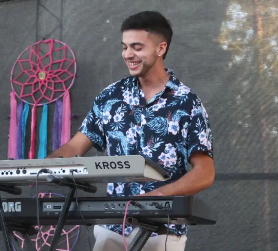
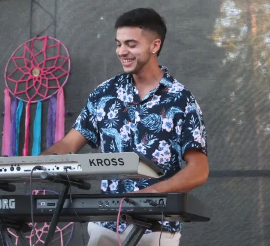
acomodando mis imagenes de class carousell, de torena music, modificanso imagenes de mi galeria

diff --git a/pages/galeria.html b/pages/galeria.html
@@ -58,10 +58,10 @@
         <section class="galeria">
 
             <div class="galeria__img d1">
-                <img src="../images/captura1.png" alt="LaDescokada show en vivo">
+                <img src="../images/estudio.jpg" alt="LaDescokada show en vivo">
             </div>
             <div class="galeria__img d2">
-                <img src="../images/captura4.png" alt="LaDescokada show en vivo">
+                <img src="../images/image00006.jpeg" alt="LaDescokada show en vivo">
             </div>
 
             <div class="galeria__img d3">

diff --git a/css/style.css b/css/style.css
@@ -195,7 +195,7 @@ body {
   object-fit: cover;
 }
 .galeria__img img:hover {
-  border: 5px solid white;
+  border: 3px solid white;
   border-radius: 20px;
   transition: 0.5s;
 }
@@ -286,7 +286,7 @@ h2 {
   animation-delay: 8s;
 }
 .carousell img {
-  width: 900px;
+  width: 100%;
   height: 100%;
   object-fit: cover;
 }
@@ -419,6 +419,10 @@ h2 {
   .galeria .d2 img {
     width: 100%;
     height: 100%;
+  }
+  .carousell {
+    width: 100%;
+    height: 250px;
   }
 }
 @media only screen and (max-width: 480px) {

diff --git a/scss/layout/_galeria.scss b/scss/layout/_galeria.scss
@@ -20,7 +20,7 @@
             @include images(100%, 100%, cover);
 
             &:hover{
-                border: 5px solid $light-color;
+                border: 3px solid $light-color;
                 border-radius: 20px;
                 transition: .5s;
             }

diff --git a/scss/layout/_mediaqueris.scss b/scss/layout/_mediaqueris.scss
@@ -61,6 +61,11 @@
             }
         }
     }
+
+    .carousell {
+        width: 100%;
+        height: 250px;
+    }
 }
 
 @media only screen and (max-width:480px){

diff --git a/scss/layout/_index.scss b/scss/layout/_index.scss
@@ -75,7 +75,7 @@ h2 {
     }
 
     img {
-        @include images(900px, 100%, cover);
+        @include images(100%, 100%, cover);
     }
 }
 
